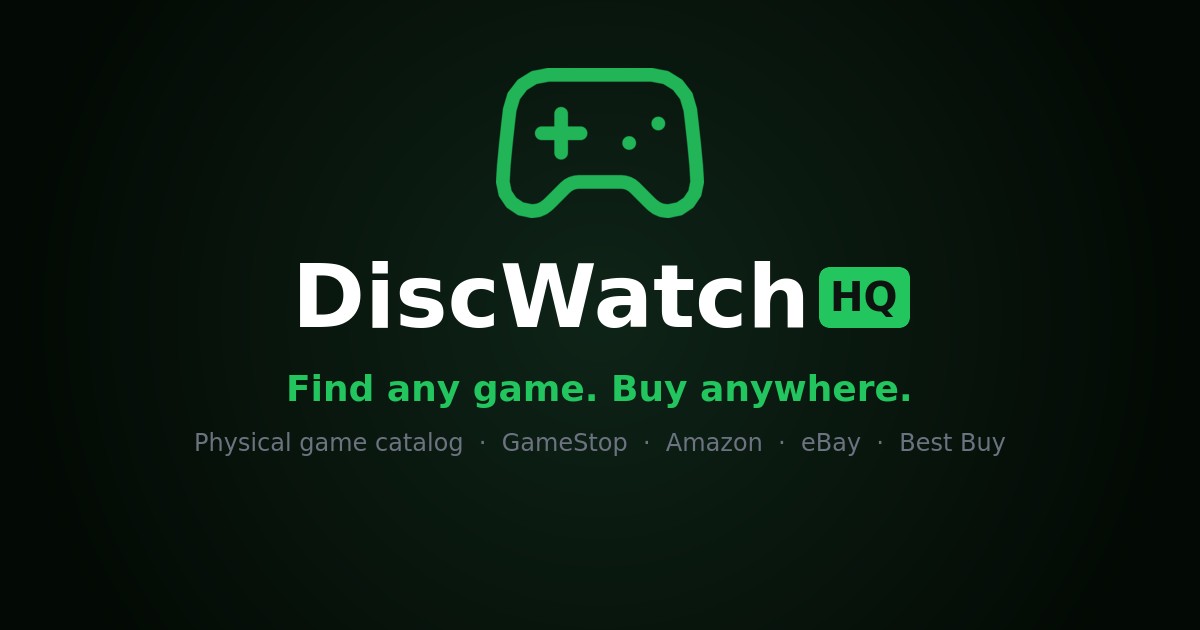
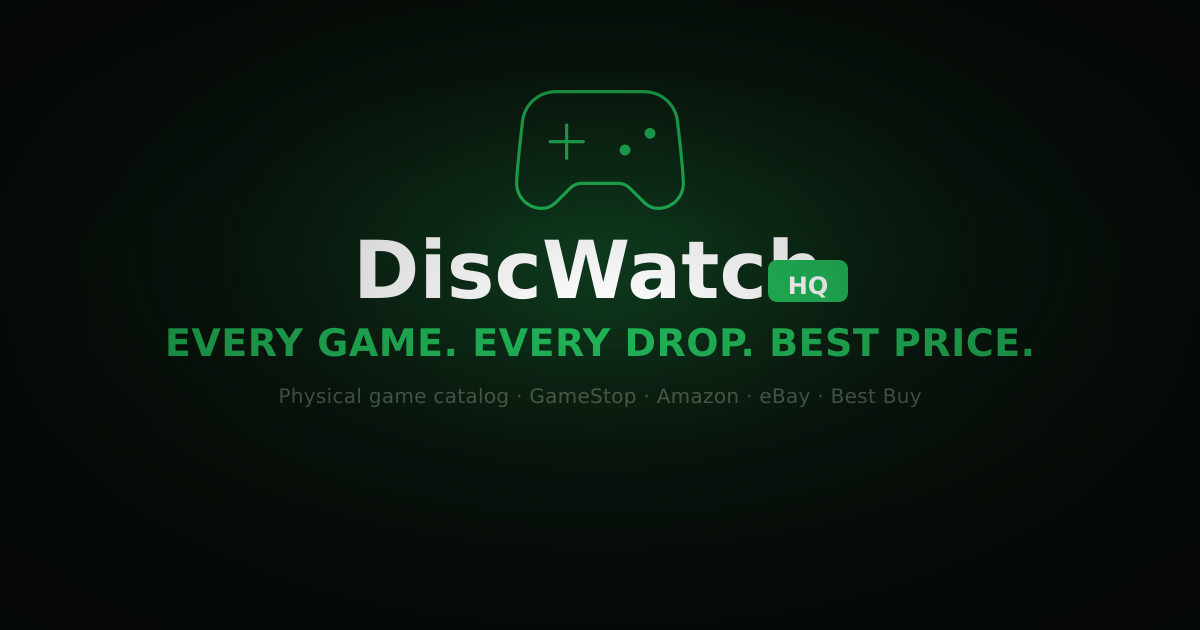
feat: update tagline to 'Every Game. Every Drop. Best Price.'
Three changes:

1. LandingPage hero headline: FIND ANY GAME. BUY ANYWHERE.
   → EVERY GAME. EVERY DROP. BEST PRICE.
   Same clamp/font-black/leading-[0.9] treatment; last line in green primary.

2. public/og-image.png: regenerated with new tagline.
   Design system preserved (dark bg, green radial glow, Lucide gamepad-2
   controller, DiscWatch white + HQ green badge, muted retailer subtext).
   Verified 1200×630 px — matches og:image:width/height meta tags exactly.
   Font: Space Grotesk Bold 700 (same typeface as the site's display font).

3. scripts/generate-og-image.mjs: new permanent script for future tagline
   or branding updates. Downloads Space Grotesk Bold TTF, builds an SVG
   with embedded font + embedded font metrics comments, rasterizes via
   librsvg/magick, and asserts exact 1200×630 output before exiting.
   Run: node scripts/generate-og-image.mjs

Page title tags and meta descriptions left unchanged per Erik's request.

Changed region(s): [[0.1233, 0.0905, 0.8633, 0.6635], [0.1542, 0.6937, 0.5242, 0.7238], [0.555, 0.6937, 0.8325, 0.7238]]

diff --git a/artifacts/tracker/src/pages/LandingPage.tsx b/artifacts/tracker/src/pages/LandingPage.tsx
@@ -379,9 +379,9 @@ export default function LandingPage() {
 
             {/* Headline */}
             <h1 className="font-display text-[clamp(3.5rem,10vw,6.5rem)] font-black tracking-tight leading-[0.9] text-foreground mb-7">
-              FIND ANY<br />
-              GAME.<br />
-              <span className="text-primary">BUY ANYWHERE.</span>
+              EVERY GAME.<br />
+              EVERY DROP.<br />
+              <span className="text-primary">BEST PRICE.</span>
             </h1>
 
             {/* Sub-headline */}
